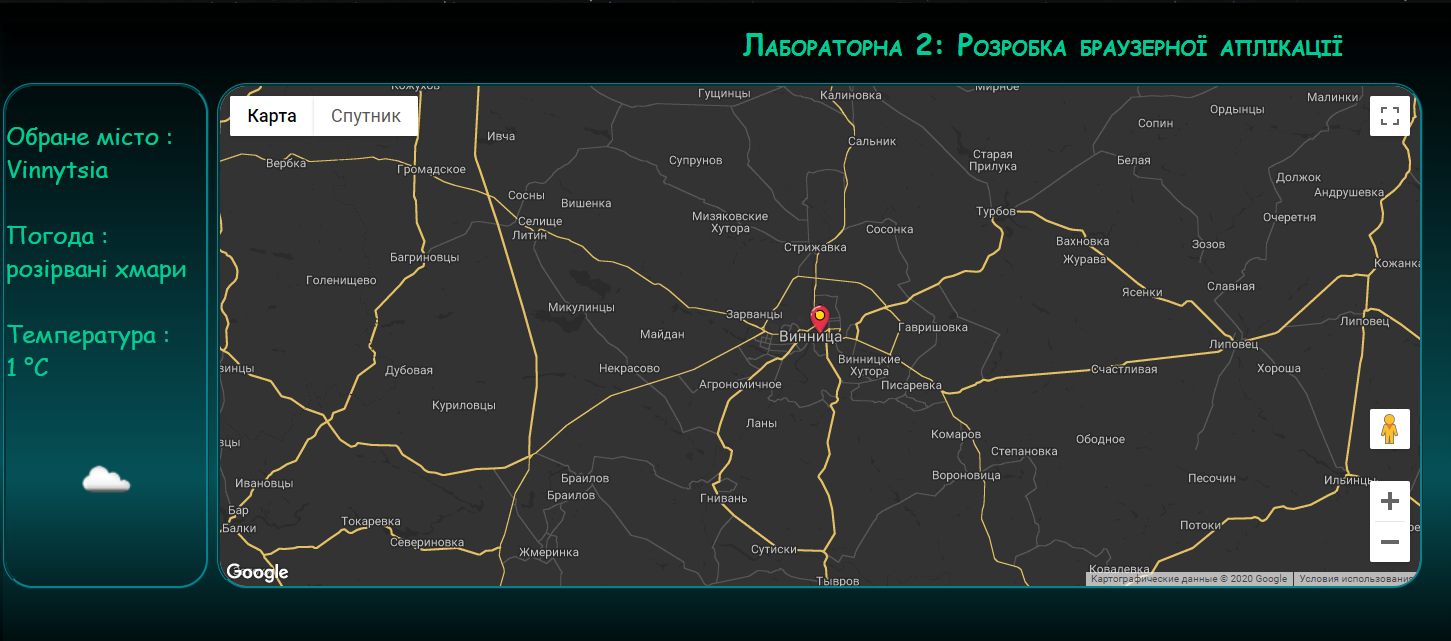
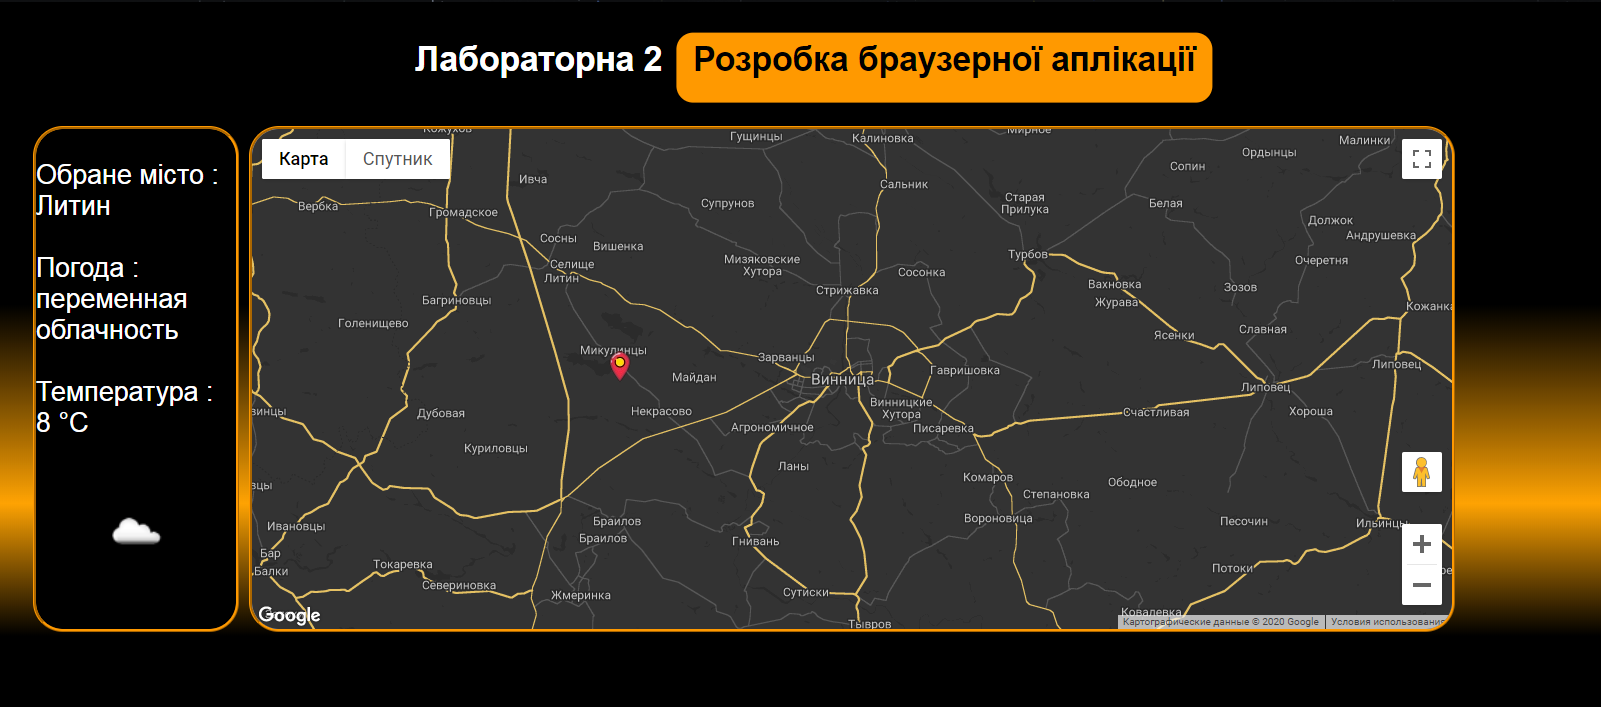
style lab 2

diff --git a/Laba_2/app.js b/Laba_2/app.js
@@ -1,7 +1,7 @@
 let map;
 let marker;
 let myLatLng = {lat: 49.2327800, lng: 28.4809700};
-let weatherAPI = "http://api.openweathermap.org/data/2.5/weather?lat="+myLatLng.lat+"&lon="+myLatLng.lng+"&lang=ua&APPID=0b93cd070c7162d5291e75495a66f000";
+let weatherAPI = "https://api.openweathermap.org/data/2.5/weather?lat="+myLatLng.lat+"&lon="+myLatLng.lng+"&lang=ru&appid=0b93cd070c7162d5291e75495a66f000";
 let baseWeather;
 	getWeather(weatherAPI);
     function initMap() {
@@ -39,7 +39,7 @@ let baseWeather;
         placeMarker(e.latLng, map);
         myLatLng.lat = e.latLng.lat();
         myLatLng.lng = e.latLng.lng();
-        var weatherAPI = "http://api.openweathermap.org/data/2.5/weather?lat="+myLatLng.lat+"&lon="+myLatLng.lng+"&lang=ua&APPID=0b93cd070c7162d5291e75495a66f000";
+        var weatherAPI = "https://api.openweathermap.org/data/2.5/weather?lat="+myLatLng.lat+"&lon="+myLatLng.lng+"&lang=ru&appid=0b93cd070c7162d5291e75495a66f000";
         getWeather(weatherAPI);
         });
  		function placeMarker(location) {
@@ -75,7 +75,7 @@ let baseWeather;
         }
         function showWeather(){
           contentInfo = 
-          "<br>"+"  Обране місто : "+"<br>"+baseWeather.name +"<br>"+"<br>"+"  Погода :"+"<br>"+baseWeather.weather[0].description +"<br>"+"<br>"+
+          "<br>"+"    Обране місто : "+"<br>"+baseWeather.name +"<br>"+"<br>"+"  Погода :"+"<br>"+baseWeather.weather[0].description +"<br>"+"<br>"+
           "  Температура : " +"<br>"+ Math.floor(baseWeather.main.temp - 273.15) +" °C"+"<br>"+"<br>";
           document.getElementById('display').innerHTML=contentInfo +"<br>"+'<image src="http://openweathermap.org/img/w/'+baseWeather.weather[0].icon+'.png" hspace="65" height="70" width="70">';
         }

diff --git a/Laba_2/app.css b/Laba_2/app.css
@@ -2,32 +2,54 @@
   position: absolute;
   width: 1200px;
   height: 500px;
-  left: 222px;
+  left: 16%;
+  top:13%;
   border-radius: 30px;
   border-style: ridge;
-  border-color: #04838e; 
+  border-color: #FF9900; 
 }
 #display{
   width: 200px;
   height: 500px;
+  position: absolute;
+  top:13%;
+  left:3%;
   border: solid;
   border-radius: 30px;
   border-style: ridge;
-  border-color: #04838e; 
-  font-size: 150%;
-  font-family: cursive;
-  color:#00cc99;
+  border-color: #FF9900; 
+  font-family: sans-serif;
+  font-weight: solid;
+  font-size: 1.6vw;
+  color:#ffffff;
+  background:#000000;
+}
+#bloks{ 
+  line-height: 1.6;
+  color: #ffffff;
+  box-sizing: border-box;
+  display: block;
+  font-family: sans-serif;
+  font-weight: bold;
+  font-size: 3vw;
+  position: relative;
+  left: 50%;
+  top:5%;
+  transform: translate(-50%, -50%);
+  float: left;
+}
+#P{
+  font-size: 2vw;
+}
+#H{
+  font-size: 2vw;
+  background: #FF9900;
+  color: #000000;
+  border-radius: 1vw;
+  padding: 0 1vw 1vw 1vw;
+  display: inline-block;
 }
 html, body {
-  background: rgb(0,0,0);
-  background: linear-gradient(180deg, rgba(0,0,0,1) 0%, rgba(5,81,87,1) 48%, rgba(0,0,0,1) 69%);
+  background: linear-gradient(180deg, rgba(0,0,0,1) 31%, rgba(255,163,2,0.9500175070028011) 52%, rgba(0,0,0,1) 66%);
   height: 100%;      
-}
-h1{
-  color:#00cc99;
-  text-transform:unset;
-  font-size: 180%;
-  font-family: cursive;
-  margin-left: 740px;
-  font-variant: small-caps
 }

diff --git a/Laba_2/app.html b/Laba_2/app.html
@@ -7,7 +7,10 @@
     <link rel="stylesheet" href="app.css">
   </head>
   <body>
-    <h1>Лабораторна 2: Розробка браузерної аплікації</h1>
+  <div id ="bloks"> 
+     <span id ="P">Лабораторна 2</span>
+     <span id ="H">Розробка браузерної аплікації</span> 
+  </div>
 	<div id = "content">    
 	    <div id="map"></div>
 	    <div id="display"></div>

diff --git a/Laba_2/README.md b/Laba_2/README.md
@@ -1,4 +1,4 @@
-# main - app.js
+# main - app.html
 ## Laba №2
 ## Google maps API 
 ### ![Alt-Google maps API ](app.png "(^-^)")
